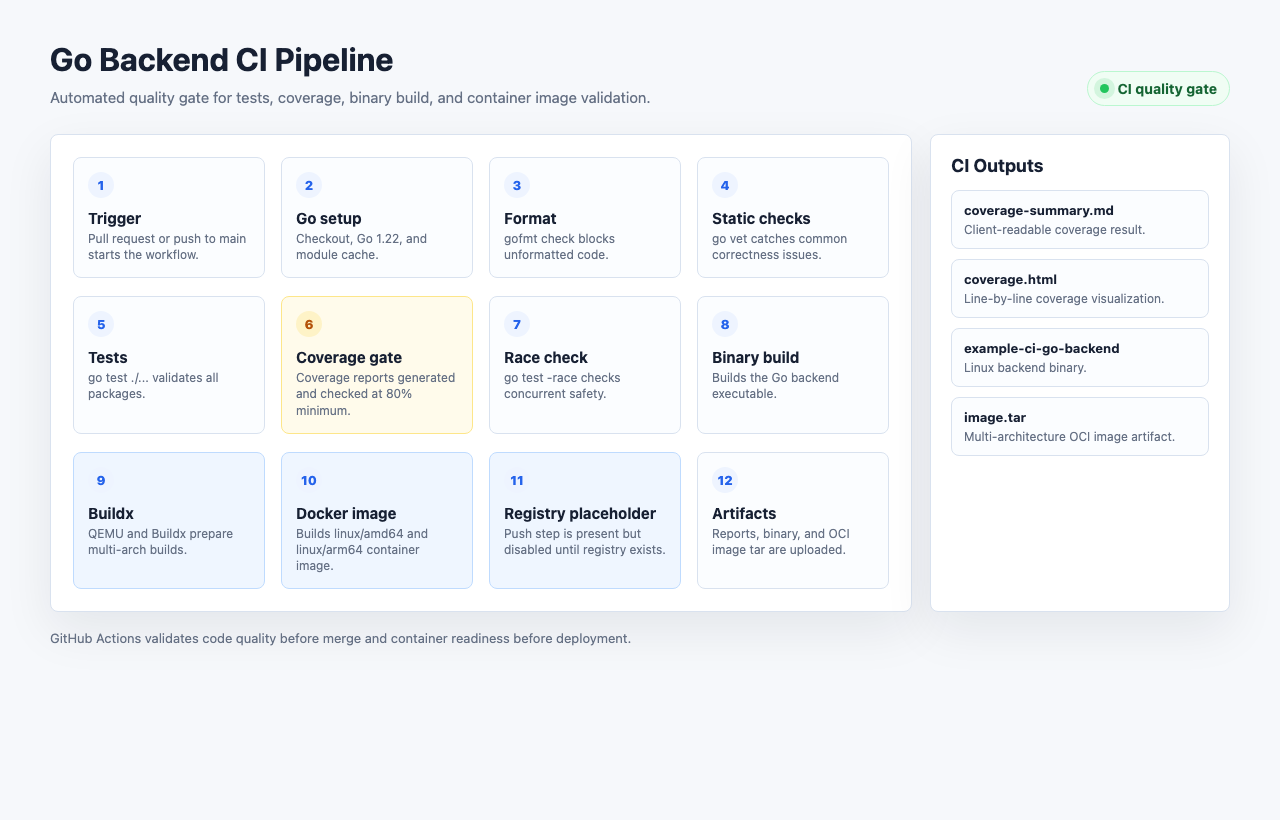
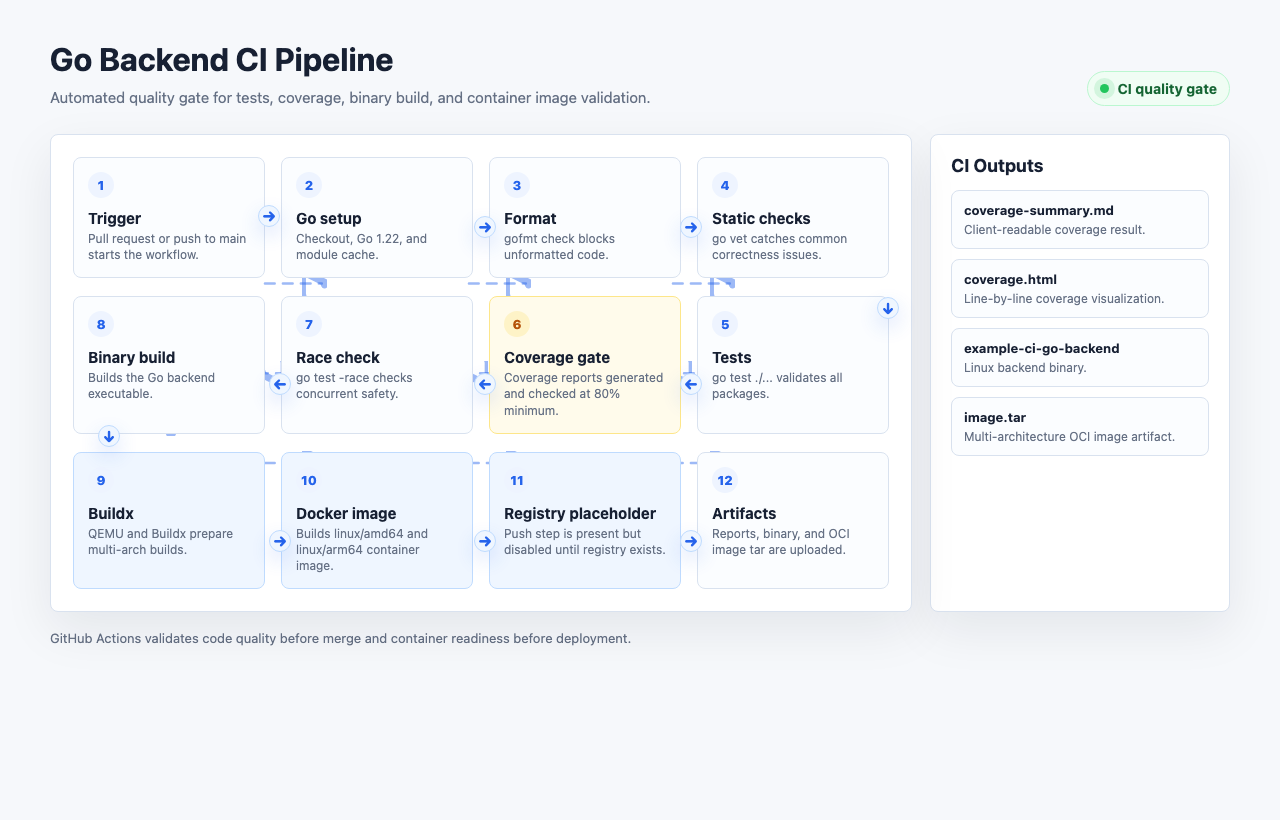
Add arrows to CI pipeline animation

diff --git a/docs/ci-pipeline.html b/docs/ci-pipeline.html
@@ -97,17 +97,62 @@
       }
 
       .pipeline {
+        position: relative;
         padding: 22px;
       }
 
       .grid {
+        position: relative;
+        z-index: 2;
         display: grid;
         grid-template-columns: repeat(4, minmax(150px, 1fr));
+        grid-template-areas:
+          "s1 s2 s3 s4"
+          "s8 s7 s6 s5"
+          "s9 s10 s11 s12";
         gap: 18px 16px;
+      }
+
+      .flow-lines {
+        position: absolute;
+        inset: 22px;
+        z-index: 1;
+        width: calc(100% - 44px);
+        height: calc(100% - 44px);
+        pointer-events: none;
+      }
+
+      .flow-lines path {
+        fill: none;
+        stroke: rgba(37, 99, 235, 0.45);
+        stroke-width: 3;
+        stroke-linecap: round;
+        stroke-linejoin: round;
+        stroke-dasharray: 12 10;
+        animation: dash 1.8s linear infinite;
+      }
+
+      .flow-arrow {
+        position: absolute;
+        z-index: 4;
+        display: grid;
+        place-items: center;
+        width: 22px;
+        height: 22px;
+        border: 1px solid #bfdbfe;
+        border-radius: 50%;
+        background: #eff6ff;
+        color: var(--blue);
+        font-size: 15px;
+        font-weight: 900;
+        box-shadow: 0 8px 20px rgba(37, 99, 235, 0.16);
+        animation: arrow-pop 12s linear infinite;
+        animation-delay: calc(var(--i) * 0.65s);
       }
 
       .step {
         position: relative;
+        z-index: 2;
         min-height: 92px;
         border: 1px solid var(--border);
         border-radius: 8px;
@@ -116,6 +161,54 @@
         overflow: hidden;
         animation: activate 12s linear infinite;
         animation-delay: calc(var(--i) * 0.65s);
+      }
+
+      .step:nth-child(1) {
+        grid-area: s1;
+      }
+
+      .step:nth-child(2) {
+        grid-area: s2;
+      }
+
+      .step:nth-child(3) {
+        grid-area: s3;
+      }
+
+      .step:nth-child(4) {
+        grid-area: s4;
+      }
+
+      .step:nth-child(5) {
+        grid-area: s5;
+      }
+
+      .step:nth-child(6) {
+        grid-area: s6;
+      }
+
+      .step:nth-child(7) {
+        grid-area: s7;
+      }
+
+      .step:nth-child(8) {
+        grid-area: s8;
+      }
+
+      .step:nth-child(9) {
+        grid-area: s9;
+      }
+
+      .step:nth-child(10) {
+        grid-area: s10;
+      }
+
+      .step:nth-child(11) {
+        grid-area: s11;
+      }
+
+      .step:nth-child(12) {
+        grid-area: s12;
       }
 
       .step::after {
@@ -257,6 +350,28 @@
         }
       }
 
+      @keyframes dash {
+        to {
+          stroke-dashoffset: -22;
+        }
+      }
+
+      @keyframes arrow-pop {
+        0%,
+        6% {
+          transform: translate(-50%, -50%) scale(1);
+        }
+        8%,
+        14% {
+          transform: translate(-50%, -50%) scale(1.16);
+          background: #dbeafe;
+        }
+        20%,
+        100% {
+          transform: translate(-50%, -50%) scale(1);
+        }
+      }
+
       @media (max-width: 900px) {
         main {
           width: min(100vw - 28px, 720px);
@@ -274,6 +389,27 @@
 
         .grid {
           grid-template-columns: 1fr;
+          grid-template-areas:
+            "s1"
+            "s2"
+            "s3"
+            "s4"
+            "s5"
+            "s6"
+            "s7"
+            "s8"
+            "s9"
+            "s10"
+            "s11"
+            "s12";
+        }
+
+        .flow-lines {
+          display: none;
+        }
+
+        .flow-arrow {
+          display: none;
         }
 
         .outputs {
@@ -294,6 +430,35 @@
 
       <section class="layout" aria-label="CI pipeline visualization">
         <div class="pipeline">
+          <svg class="flow-lines" viewBox="0 0 1000 330" role="img" aria-label="Animated CI flow arrows">
+            <defs>
+              <marker id="arrowhead" markerWidth="10" markerHeight="10" refX="8" refY="5" orient="auto">
+                <path d="M 0 0 L 10 5 L 0 10 z" fill="rgba(37, 99, 235, 0.62)"></path>
+              </marker>
+            </defs>
+            <path marker-end="url(#arrowhead)" d="M 235 55 H 305"></path>
+            <path marker-end="url(#arrowhead)" d="M 485 55 H 555"></path>
+            <path marker-end="url(#arrowhead)" d="M 735 55 H 805"></path>
+            <path marker-end="url(#arrowhead)" d="M 880 94 V 126"></path>
+            <path marker-end="url(#arrowhead)" d="M 805 165 H 735"></path>
+            <path marker-end="url(#arrowhead)" d="M 555 165 H 485"></path>
+            <path marker-end="url(#arrowhead)" d="M 305 165 H 235"></path>
+            <path marker-end="url(#arrowhead)" d="M 120 204 V 236"></path>
+            <path marker-end="url(#arrowhead)" d="M 235 275 H 305"></path>
+            <path marker-end="url(#arrowhead)" d="M 485 275 H 555"></path>
+            <path marker-end="url(#arrowhead)" d="M 735 275 H 805"></path>
+          </svg>
+          <span class="flow-arrow" style="--i: 0; left: 25.3%; top: 17%;">&rarr;</span>
+          <span class="flow-arrow" style="--i: 1; left: 49.2%; top: 17%;">&rarr;</span>
+          <span class="flow-arrow" style="--i: 2; left: 73.1%; top: 17%;">&rarr;</span>
+          <span class="flow-arrow" style="--i: 3; left: 96%; top: 34%;">&darr;</span>
+          <span class="flow-arrow" style="--i: 4; left: 73.1%; top: 50%;">&larr;</span>
+          <span class="flow-arrow" style="--i: 5; left: 49.2%; top: 50%;">&larr;</span>
+          <span class="flow-arrow" style="--i: 6; left: 25.3%; top: 50%;">&larr;</span>
+          <span class="flow-arrow" style="--i: 7; left: 5.5%; top: 61%;">&darr;</span>
+          <span class="flow-arrow" style="--i: 8; left: 25.3%; top: 83%;">&rarr;</span>
+          <span class="flow-arrow" style="--i: 9; left: 49.2%; top: 83%;">&rarr;</span>
+          <span class="flow-arrow" style="--i: 10; left: 73.1%; top: 83%;">&rarr;</span>
           <div class="grid">
             <article class="step" style="--i: 0">
               <span class="num">1</span>